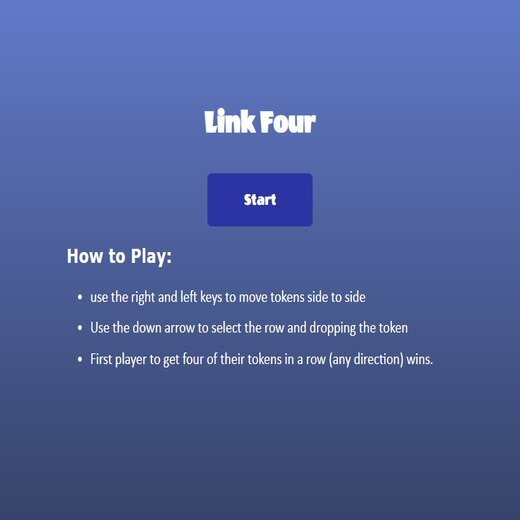
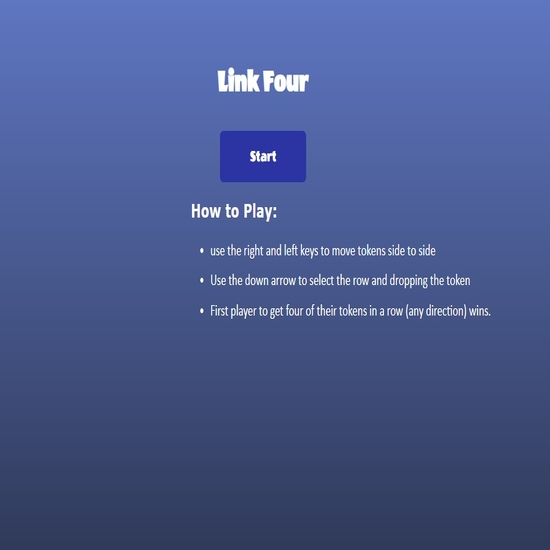
css and image updates

diff --git a/public/css/styles.css b/public/css/styles.css
@@ -258,8 +258,6 @@ nav a span {
 
 .cell:hover {
   animation: pulse 1.5s cubic-bezier(.36,.07,.19,.97);
-  
-    
 }
 
 .sidebar a:hover {
@@ -268,7 +266,6 @@ nav a span {
 }
 
 a:hover {
-  font-size: 17px;
   color: goldenrod;
 }
 
@@ -549,6 +546,27 @@ nav a span {
   Desktop layout styles 
 */
 @media screen and (min-device-width: 1024px) {
+
+  html,
+body {
+  font-size: 100%;
+  width: 100%;
+  max-width: 100%;
+  height: 100%;
+  max-height: 100%;
+}
+
+body {
+  position: relative;
+  font-family: "Helvetica Neue", Helvetica, Roboto, Arial, sans-serif;
+  font-weight: normal;
+  line-height: 1.5;
+  color: #0a0a0a;
+  background: #fefefe;
+  background: #000;
+  transition: all 0.4s ease-out;
+}
+
   .sidebar {
     left: 0;
   }
